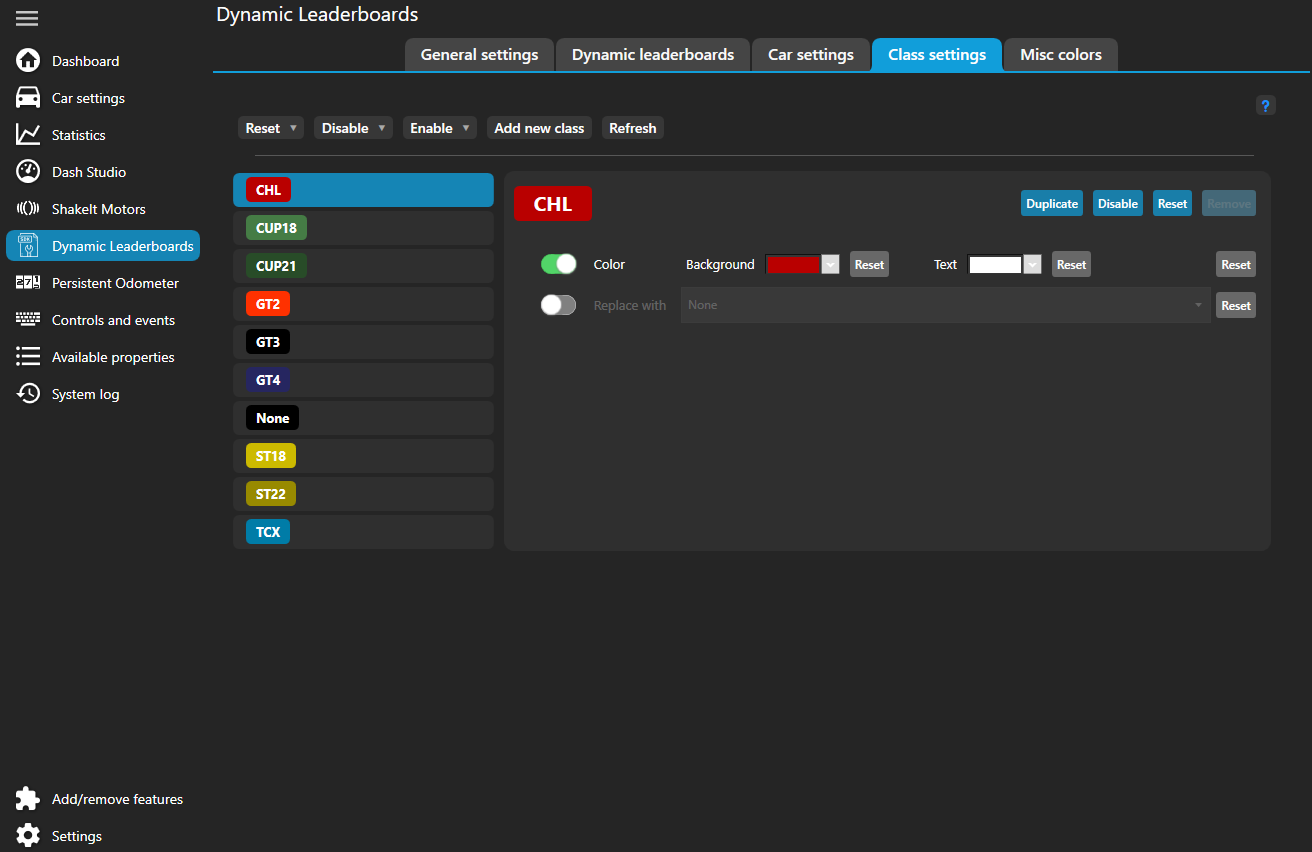
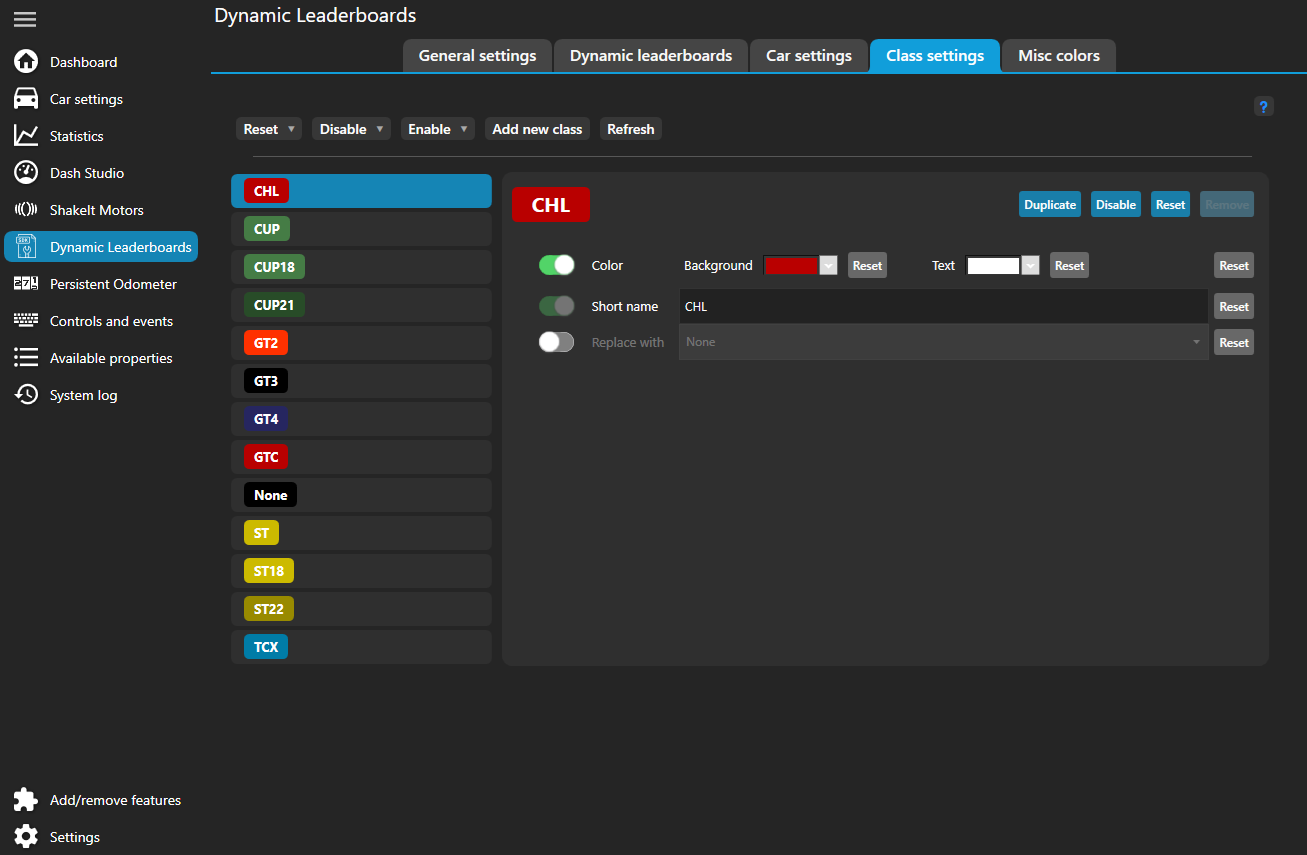
docs: explain properties of car/class settings tab and update class settings tab image

diff --git a/docs/docs/user_guide/config.md b/docs/docs/user_guide/config.md
@@ -140,8 +140,10 @@ If you are creating your own dashboard make sure to give [Creating dashboards](c
 
 This tab provides an option to change car names, manufacturers and classes. 
 All the available cars are listed on the left. 
+The listed name is the name provided by SimHub.
 If the plugin detects a new car while in game it will be added to the list but for now you'll
 need to manually refresh the list by clicking the `Refresh` button.
+This is so that we don't build unnecessary UI elements when they are not viewed and we are actually racing.
 A new car will be added in disabled state but most of the times reasonable defaults will be provided
 for easy customization.
 
@@ -166,6 +168,34 @@ The main use for base data is to match in game info (names, classes, colors etc)
     In the car settings menu if a property is enabled then whatever text is in text box will be used.
     If the property is disabled then SimHub's data will be used.
 
+#### Properties
+
+***Name***
+: Provide an custom car name instead of the one provided by SimHub.
+
+    Main use case for this option is to replace car names which are more like IDs (for example in AC).
+
+    If the base data is not available then the plugin default is the name provided by SimHub.
+
+***Manufacturer***
+: Provide an custom manufacturer.
+
+    If the base data is not available then the plugin default is the first word of SimHub provided name.
+    This is not perfect as some manufacturers have multiple words but in most cases this works fine.
+
+    Note that this property cannot be disabled since SimHub itself doesn't provide an alternative class name.
+
+***Class***
+: Provide a custom class for given car.
+
+    It is useful to split cars up more (for example in AC most cars are in either "street" or "race" class)
+    or change it's class to more suitable.
+
+    Note that if you want to change all cars from one class to another.
+    Then the simplest option is to set the `replace with` property on the current class.
+    See ["Class settings"](#properties_1) for more details.
+
+    If the base data is not available then the plugin default is the class provided by SimHub.
 
 #### Assetto Corsa
    
@@ -204,32 +234,57 @@ list by clicking the `Refresh` button.
 The classes also have same [three level fallback system](#fallback-and-defaults) as ["Car settings"](#car-settings).
 Base data is provided for ACC and AMS2 to match in game class colors and for R3E to match class groups.
 
-#### Replace with
+#### Properties
 
-If this option is set all cars that belong to the original class are shown in the `replace with` class.
-This can be useful in few cases.
+***Color***
 
-1. It allows to combine classes. 
+: Each color has background and text part which are also shown in a little preview box.
+    Background color is exported simply as `Color`, for example `Car.Class.Color`. 
+    Text color is exported as `Car.Class.TextColor`.
 
-    For example in R3E the game provided classes are very specific and even in game itself they are combined together.
-    For example "DTM 2023" and "GTR 3" are both GT3 cars and are grouped together. 
-    Thus "DTM 2023" class' `replace with` property should probably be set to "GTR 3".
+    If this property is disabled then SimHub's class colors will be used. 
+    You can change them from the "Car settings" item on the left menu (not to be confused with this plugins "Car settings" menu).
 
-    Similarly in AMS2 "GT3" and "GT3_gen2" are both "GT3" cars and in ACC "ST22" and "CHL" cars are also "GT2" cars.
+    If the base data is not available then the plugin default is to disable this property and use SimHub provided colors.
 
-    The plugin provides these replacement with base data to match in game classes. 
-    If you want you can disable all of replacements from "Disable" -> "Disable all "replace with" values" menu item. 
+***Short name***
 
-2. It allows to replace a given class with another without having to go through all the cars and change all of their classes.
-   
-    This method also has the benefit that any new car that is listed as "old class" by the game, will automatically use the new class.
-    If that is not desired, one could always change the car classes individually from the ["Car settings"](#car-settings) menu.
+: Some full class names can be rather long and in many leaderboards there is not enough space to actually show the full class name. 
+    This option allows to specify an alternative.
 
-3. It allows to rename classes. 
-   
-    First step is to duplicate the class you want to rename (from the blue `Duplicate` button). 
-    Second is to set `replace with` property on the original class to the new class.
+    If the base data is not available then the plugin default is the full class name.
 
+    Note that this property cannot be disabled since SimHub itself doesn't provide an alternative class name.
+
+***Replace with***
+
+: If this option is set all cars that belong to the original class are shown in the `replace with` class.
+    This can be useful in a few cases.
+
+    1. It allows to combine classes. 
+
+        For example in R3E the game provided classes are very specific and even in game itself they are combined together.
+        For example "DTM 2023" and "GTR 3" are both GT3 cars and are grouped together. 
+        Thus "DTM 2023" class' `replace with` property should probably be set to "GTR 3".
+
+        Similarly in AMS2 "GT3" and "GT3_gen2" are both "GT3" cars and in ACC "ST22" and "CHL" cars are also "GT2" cars.
+
+        The plugin provides these replacement with base data to match in game classes. 
+        If you want you can disable all of replacements from "Disable" -> "Disable all "replace with" values" menu item. 
+
+    2. It allows to replace a given class with another without having to go through all the cars and change all of their classes.
+    
+        This method also has the benefit that any new car that is listed as "old class" by the game, will automatically use the new class.
+        If that is not desired, one could always change the car classes individually from the ["Car settings"](#car-settings) menu.
+
+    3. It allows to rename classes. 
+    
+        First step is to duplicate the class you want to rename (from the blue `Duplicate` button). 
+        Second is to set `replace with` property on the original class to the new class.
+
+        To easily revert back to the old state reset or disable the `replace with` property on the old class.
+
+    If the base data is not available then the plugin default is to disable `replace with`.
 
 ## Misc colors
 
